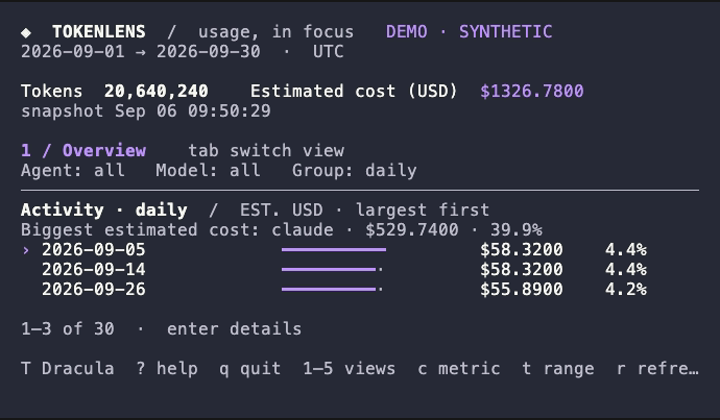
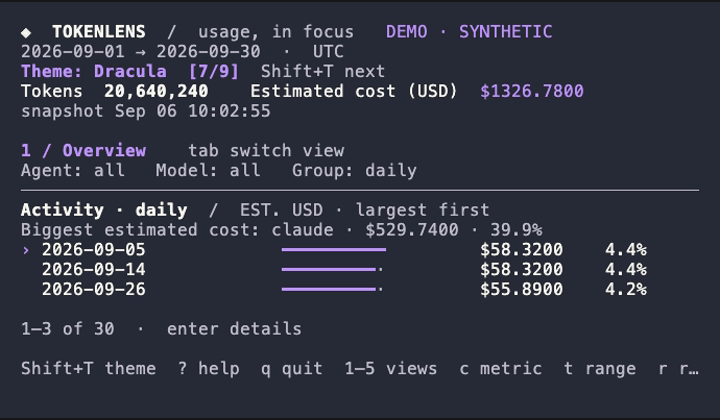
Make the active theme prominent in the dashboard header

diff --git a/internal/app/dashboard.go b/internal/app/dashboard.go
@@ -61,8 +61,9 @@ func (m model) View() string {
 	if m.o.Demo {
 		mode = "DEMO · SYNTHETIC"
 	}
-	left := bright.Render("◈  T O K E N L E N S") + "   " + muted.Render("Your agent usage, in focus")
-	right := accent.Render(mode) + "    " + muted.Render("[t] range   [r] refresh   [?] controls")
+	left := bright.Render("◈  T O K E N L E N S") + "   " + muted.Render(mode)
+	right := m.themeIndicator()
+	left = clip(left, max(1, w-ansi.StringWidth(right)-2))
 	head.WriteString(left + strings.Repeat(" ", max(2, w-ansi.StringWidth(left)-ansi.StringWidth(right))) + right + "\n")
 	fresh := "Waiting for first snapshot"
 	if !m.s.Loaded.IsZero() {
@@ -169,7 +170,7 @@ func (m model) View() string {
 		}
 		body = row(order[0], order[1], topH) + "\n" + row(order[2], order[3], bottomH)
 	}
-	footer := muted.Render("T " + themeLabel(m.o.Theme) + "  [ / ] widgets  enter open  v layout  e currency  p preset  b plan  o export  c metric  ? help  q quit")
+	footer := muted.Render("Shift+T theme  [ / ] widgets  enter open  v layout  e currency  p preset  b plan  o export  c metric  ? help  q quit")
 	content := fit(prefix+body, w, h-1) + "\n" + fit(footer, w, 1)
 	return themeRender(lipgloss.NewStyle().Foreground(ink).Padding(1, 2).Render(content), m.o.Theme, m.width, m.height)
 }

diff --git a/internal/app/theme_test.go b/internal/app/theme_test.go
@@ -7,6 +7,7 @@ import (
 
 	tea "github.com/charmbracelet/bubbletea"
 	"github.com/charmbracelet/lipgloss"
+	"github.com/charmbracelet/x/ansi"
 	"github.com/muesli/termenv"
 )
 
@@ -64,6 +65,26 @@ func TestThemeStartupAndBackground(t *testing.T) {
 		prefix := strings.SplitN(expected, "x", 2)[0]
 		if prefix == "" || !strings.HasPrefix(themeRender("hello", name, 50, 16), prefix) {
 			t.Fatalf("wrong background for %s", name)
+		}
+	}
+}
+
+func TestThemeIndicatorVisibleAtTop(t *testing.T) {
+	defer applyTheme("dark")
+	m := fixtureModel()
+	for _, name := range themeNames {
+		m.o.Theme = name
+		applyTheme(name)
+		for _, wh := range [][2]int{{50, 16}, {80, 24}, {96, 32}, {160, 50}} {
+			m.width, m.height = wh[0], wh[1]
+			for view := 0; view < 5; view++ {
+				m.view = view
+				lines := strings.Split(ansi.Strip(m.View()), "\n")
+				top := strings.Join(lines[:min(4, len(lines))], "\n")
+				if !strings.Contains(top, "Theme: "+themeLabel(name)) || !strings.Contains(top, "Shift+T next") {
+					t.Fatalf("missing visible theme indicator for %s at %v view %d: %s", name, wh, view, top)
+				}
+			}
 		}
 	}
 }

diff --git a/internal/app/ui.go b/internal/app/ui.go
@@ -516,7 +516,7 @@ func (m model) compactView() string {
 		badge = "DEMO · SYNTHETIC"
 	}
 	b.WriteString(bright.Render("◈  TOKENLENS") + "  " + muted.Render("/  usage, in focus") + "   " + accent.Render(badge) + "\n")
-	b.WriteString(muted.Render(clip(m.o.Range.String()+"  ·  "+m.o.TZ, w)) + "\n\n")
+	b.WriteString(muted.Render(clip(m.o.Range.String()+"  ·  "+m.o.TZ, w)) + "\n" + m.themeIndicator() + "\n")
 	u := total(filtered(m.s.Sections["daily"], m.agent, m.modelFilter))
 	summary := "Tokens  " + bright.Render(format(u.Tokens, false)) + "    Estimated cost (" + m.fx.Currency + ")  " + accent.Render(m.fx.format(u.Cost))
 	if m.s.Loaded.IsZero() {
@@ -690,7 +690,7 @@ func (m model) compactView() string {
 			}
 		}
 	}
-	footer := muted.Render("T " + themeLabel(m.o.Theme) + "  ? help  q quit  1–5 views  c metric  t range  r refresh")
+	footer := muted.Render("Shift+T theme  ? help  q quit  1–5 views  c metric  t range  r refresh")
 	content := b.String()
 	lines := strings.Split(content, "\n")
 	maxLines := m.height - 4

diff --git a/internal/app/customize.go b/internal/app/customize.go
@@ -45,6 +45,18 @@ func themeLabel(name string) string {
 	return paletteFor(name).label
 }
 
+// themeIndicator stays visible above the content, including in compact terminals.
+func (m model) themeIndicator() string {
+	index := 1
+	for i, name := range themeNames {
+		if name == m.o.Theme {
+			index = i + 1
+			break
+		}
+	}
+	return accent.Bold(true).Render(fmt.Sprintf("Theme: %s  [%d/%d]", themeLabel(m.o.Theme), index, len(themeNames))) + muted.Render("  Shift+T next")
+}
+
 func applyTheme(name string) {
 	activeTheme = name
 	p := paletteFor(name)

diff --git a/docs/usage.md b/docs/usage.md
@@ -26,7 +26,7 @@ All available agent and model names are discovered dynamically. Agent and model 
 | `n` | Toggle compact k/M/B token labels (inspector remains exact) |
 | `c` / `s` | Cost vs. tokens; descending / ascending / name sorting |
 | `e` | Cycle USD, EUR, GBP, JPY |
-| `T` | Cycle theme (active name appears in footer) |
+| `T` | Cycle theme (active name appears at the top) |
 | `t` | Edit dates: two dates, `month`, or `last N` |
 | `p` | Calendar month → billing cycle → last 30 days → since August 1 |
 | `b` | Toggle configured subscription-plan comparison |
@@ -97,6 +97,9 @@ Press `o`, then choose JSON, CSV, SVG, or PNG. Files go into `./exports` (or `--
 Press `Shift+T` inside the dashboard to cycle through Dark, Light, ASCII, Nord,
 Gruvbox, Tokyo Night Light, Dracula, Catppuccin Mocha, and Solarized Light.
 The palette changes immediately, including charts, highlights, and backgrounds.
+A prominent `Theme: Nord [4/9]` indicator at the top always shows the current
+theme, its position in the cycle, and the `Shift+T next` shortcut, including in
+compact terminals.
 The selection lasts for the current run. Choose a startup theme with `--theme`:
 
 ```sh
